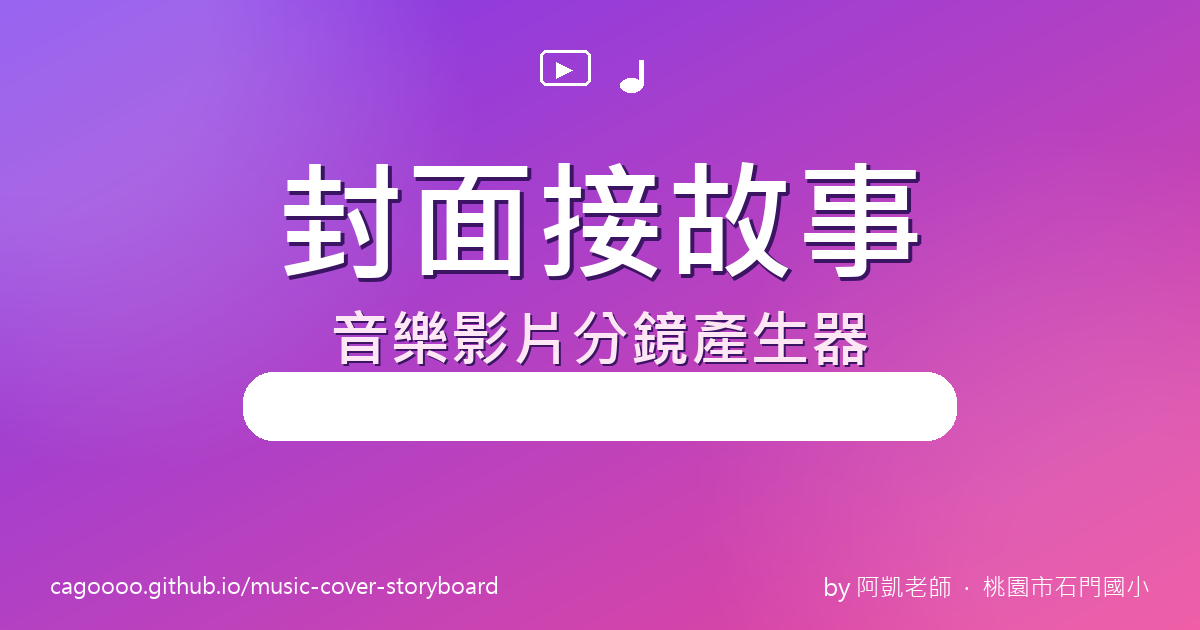
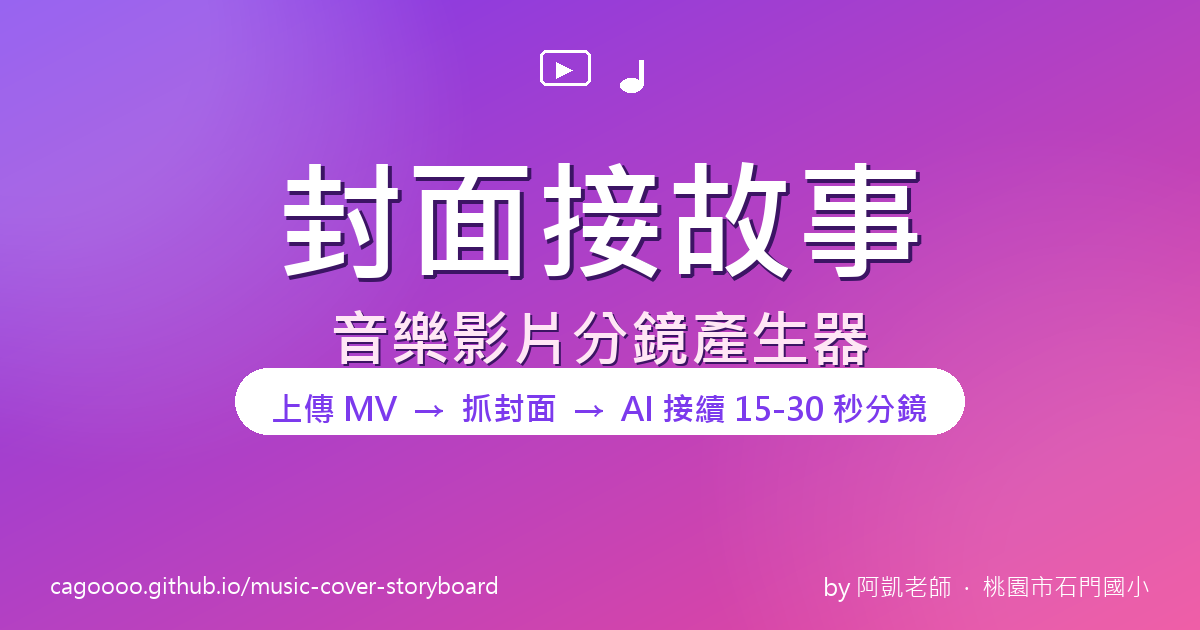
fix: OG 圖流程膠囊文字消失 — 改深紫字 + 不透明白底
PIL 在 RGB 模式下會忽略 fill 的 alpha 通道，膠囊半透明白色變成不透明白，
再用白色文字畫上去 = 看不見字。

修法：
- 膠囊保持白色不透明
- 文字改成深紫色 #7c3aed（背景紫粉漸層 + 白膠囊 + 深紫字 = 高對比好讀）
- 順便用 textbbox 動態算膠囊高度（不再硬編碼 40）

cache-bust 全部升 ?v=1.1.0 → ?v=1.1.1，FB / LINE / Twitter 會視為新 URL 重抓

Changed region(s): [[0.185, 0.573, 0.8017, 0.7238]]

diff --git a/public/index.html b/public/index.html
@@ -12,21 +12,21 @@
   <meta property="og:description" content="上傳 MV → 抓出封面 → 一鍵接續 15-30 秒分鏡。給老師、家長、學生免費使用。" />
   <meta property="og:type" content="website" />
   <meta property="og:url" content="https://cagoooo.github.io/music-cover-storyboard/" />
-  <meta property="og:image" content="https://cagoooo.github.io/music-cover-storyboard/og-image.png?v=1.1.0" />
+  <meta property="og:image" content="https://cagoooo.github.io/music-cover-storyboard/og-image.png?v=1.1.1" />
   <meta property="og:image:width" content="1200" />
   <meta property="og:image:height" content="630" />
   <meta property="og:image:alt" content="封面接故事 · 音樂影片分鏡產生器（紫粉漸層 + 影格與音符圖示）" />
   <meta property="og:locale" content="zh_TW" />
   <meta property="og:site_name" content="封面接故事" />
   <meta name="twitter:card" content="summary_large_image" />
-  <meta name="twitter:image" content="https://cagoooo.github.io/music-cover-storyboard/og-image.png?v=1.1.0" />
+  <meta name="twitter:image" content="https://cagoooo.github.io/music-cover-storyboard/og-image.png?v=1.1.1" />
 
   <!-- Favicons：SVG 給現代瀏覽器（最清晰）、ICO 給舊版 fallback、PNG 給 PWA / Android -->
-  <link rel="icon" type="image/svg+xml" href="favicon.svg?v=1.1.0" />
-  <link rel="icon" type="image/x-icon" href="favicon.ico?v=1.1.0" />
-  <link rel="icon" type="image/png" sizes="192x192" href="icon-192.png?v=1.1.0" />
-  <link rel="icon" type="image/png" sizes="512x512" href="icon-512.png?v=1.1.0" />
-  <link rel="apple-touch-icon" sizes="180x180" href="apple-touch-icon.png?v=1.1.0" />
+  <link rel="icon" type="image/svg+xml" href="favicon.svg?v=1.1.1" />
+  <link rel="icon" type="image/x-icon" href="favicon.ico?v=1.1.1" />
+  <link rel="icon" type="image/png" sizes="192x192" href="icon-192.png?v=1.1.1" />
+  <link rel="icon" type="image/png" sizes="512x512" href="icon-512.png?v=1.1.1" />
+  <link rel="apple-touch-icon" sizes="180x180" href="apple-touch-icon.png?v=1.1.1" />
 
   <!-- Tailwind CDN -->
   <script src="https://cdn.tailwindcss.com?plugins=forms,typography"></script>
@@ -60,7 +60,7 @@
   <link rel="preconnect" href="https://fonts.gstatic.com" crossorigin />
   <link href="https://fonts.googleapis.com/css2?family=Noto+Sans+TC:wght@400;500;700;900&display=swap" rel="stylesheet" />
 
-  <link rel="stylesheet" href="styles.css?v=1.1.0" />
+  <link rel="stylesheet" href="styles.css?v=1.1.1" />
 
   <!-- Cloudflare Turnstile -->
   <script src="https://challenges.cloudflare.com/turnstile/v0/api.js" async defer></script>
@@ -264,7 +264,7 @@
     </div>
   </footer>
 
-  <script src="config.js?v=1.1.0"></script>
-  <script src="app.js?v=1.1.0"></script>
+  <script src="config.js?v=1.1.1"></script>
+  <script src="app.js?v=1.1.1"></script>
 </body>
 </html>

diff --git a/public/config.js b/public/config.js
@@ -8,5 +8,5 @@ window.MCS_CONFIG = {
   turnstileSiteKey: '0x4AAAAAADMPpnhO_uRA0xGi',
 
   // 版本號（用於 PWA cache-bust）
-  version: '1.1.0',
+  version: '1.1.1',
 };

diff --git a/tools/generate-assets.py b/tools/generate-assets.py
@@ -228,16 +228,19 @@ def draw_og_image(out_path):
     d.text((sub_x, sub_y), subtitle, font=font_subtitle, fill=(255, 230, 245))
 
     # === 流程列：上傳 → 抓封面 → AI 接續分鏡 ===
+    # PIL 在 RGB 模式下會忽略 fill 的 alpha 通道，所以這裡改用「白底 + 深紫字」做高對比
     flow_text = "上傳 MV  →  抓封面  →  AI 接續 15-30 秒分鏡"
     bbox = d.textbbox((0, 0), flow_text, font=font_flow)
     fw = bbox[2] - bbox[0]
+    fh = bbox[3] - bbox[1]
     flow_x = (W - fw) // 2
     flow_y = sub_y + 90
-    # 流程膠囊背景
-    pad_x, pad_y = 28, 14
-    capsule = (flow_x - pad_x, flow_y - pad_y, flow_x + fw + pad_x, flow_y + 40 + pad_y)
-    d.rounded_rectangle(capsule, radius=30, fill=(255, 255, 255, 70))
-    d.text((flow_x, flow_y), flow_text, font=font_flow, fill=(255, 255, 255))
+    # 流程膠囊背景（不透明白色）
+    pad_x, pad_y = 36, 18
+    capsule = (flow_x - pad_x, flow_y - pad_y, flow_x + fw + pad_x, flow_y + fh + pad_y)
+    d.rounded_rectangle(capsule, radius=36, fill=(255, 255, 255))
+    # 文字深紫色（高對比、好讀）
+    d.text((flow_x, flow_y), flow_text, font=font_flow, fill=(124, 58, 237))
 
     # === 左下：URL ===
     url = "cagoooo.github.io/music-cover-storyboard"
